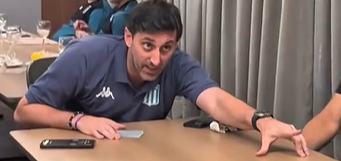
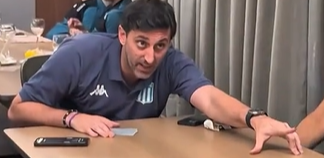
update readme

diff --git a/README.md b/README.md
@@ -5,8 +5,8 @@ Esta simulacion fue una idea del taller *"No tengo ni 20: un ejemplo de los sign
 ## Cuál es la probabilidad de ganar el envido teniendo 28?
 
 <p align="left">
-  <img src="./src/milito.png" height="400px" />
-  <img src="./src/imagen.png" height="400px" />
+    <img src="./src/milito.png" height="200px" />
+    <img src="./src/imagen.png" height="200px" />
 </p>
 
 En la [notebook](https://github.com/vickyguar/prob-frecuencial/blob/main/simulacion.ipynb) se realiza una simulación que estima que la probabilidad de ganar el envido con 28 es aproximadamente 0,86. Hay un pico en el histograma de frecuencias en 7, que se da porque en cada mano estoy obligando a elegir el valor más alto. Esto no quiere decir que sea el valor que se cante en el envido, porque uno puede expresar "mesa" para decir que no se tiene ni 20 en caso de que no hayan 2 cartas del mismo palo, por ejemplo. Esto está simulado para jugar al en casos de que se juegue 1 vs 1.
